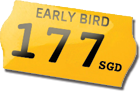
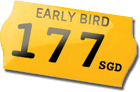
Added early-bird pricing

Changed region(s): [[0.4, 0.0652, 0.9714, 0.1957], [0.2, 0.0217, 0.4, 0.0652], [0.1143, 0.0, 0.2, 0.0217]]

diff --git a/index.html b/index.html
@@ -128,7 +128,8 @@ _,.-=~'`^`'~=-.,__,.-=~'`^`'~=-.,__,.-=~'`^`'~=-.,.-=~'`^`'~=-.,__,.-=~'
 								With all its awesome!<br/>
 								Forget bacon. Here comes chicken rice!<br/><br/>
 								<span class="announcement">
-									Get tickets <b class="bam">70% off</b> the corporate rate of 590SGD only this<br//>
+									<img src="static2/img/earlybird.png" border="0" />
+									Get tickets <b>70% off</b> the corporate rate of 590SGD only this<br//>
 									<a href="./JSCamp.Asia Early-Bird flash-sale.ics" style="text-decoration: underline;">Monday, August 6th, 3pm SGT</a>
 								</span>
 					</h3>

diff --git a/static2/css/style.css b/static2/css/style.css
@@ -386,6 +386,11 @@ h3 {
   border-radius: 8px 8px 8px 8px;
   border: 1px solid #fff;
 }
+#info .announcement img {
+  position: absolute;
+  top: -50px;
+  right: -60px;
+}
 #info .black {
   padding-bottom: 40px;
 }
